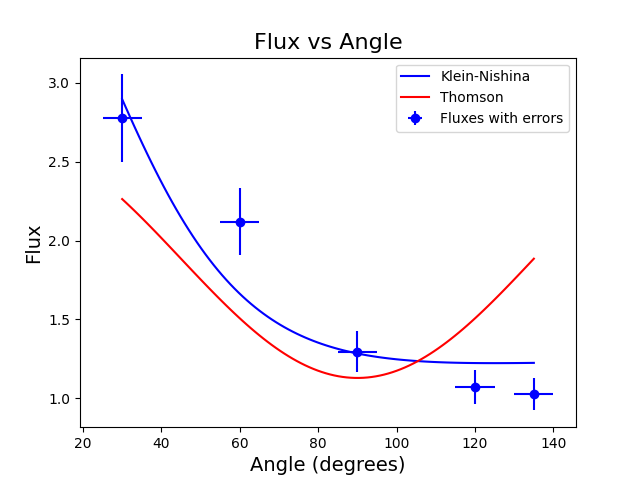
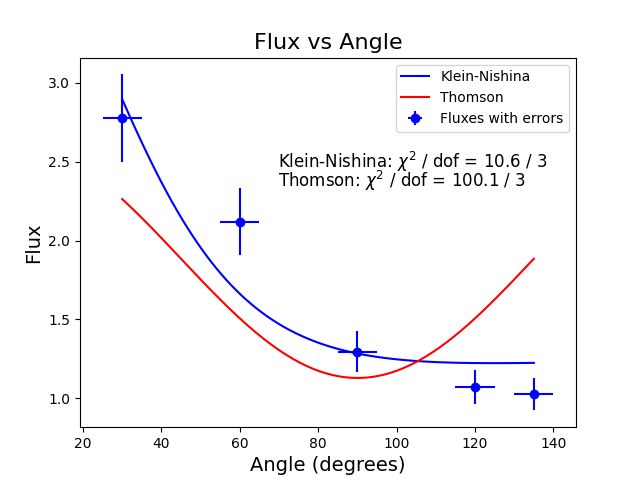
clean up images

Changed region(s): [[0.4375, 0.3125, 0.8438, 0.4062], [0.8438, 0.3125, 0.875, 0.3438]]

diff --git a/Exp2-Compton/energies_and_diffcrosssec/KN.py b/Exp2-Compton/energies_and_diffcrosssec/KN.py
@@ -92,6 +92,11 @@ if __name__ == "__main__":
     # add a 10% error to the fluxes
     recoil_flux_error = [0.1 * flux for flux in recoil_flux]
 
+    # get chi squared values for the fits
+    chi_squared_kn = np.sum((np.array(recoil_flux) - np.array(kn_function(angles, *popt)))**2 / np.array(recoil_flux_error)**2)
+    chi_squared_thomson = np.sum((np.array(recoil_flux) - np.array(thomson(angles, *popt_thomson)))**2 / np.array(recoil_flux_error)**2)
+    print(f"Klein-Nishina: chi^2 / dof = {chi_squared_kn} / {len(angles) - len(popt)}")
+    print(f"Thomson: chi^2 / dof = {chi_squared_thomson} / {len(angles) - len(popt_thomson)}")
 
     # plot the fit
     plt.errorbar(angles, recoil_flux, xerr=angle_errors, yerr=recoil_flux_error, fmt='o', label='Fluxes with errors', color='blue')
@@ -100,6 +105,11 @@ if __name__ == "__main__":
     plt.plot(theta_plt, thomson(theta_plt, *popt_thomson), label=f"Thomson", color='red')
     plt.xlabel("Angle (degrees)", fontsize=14)
     plt.ylabel("Flux", fontsize=14)
+
+    # annotate the chi squared values
+    plt.text(0.4, 0.7, f"Klein-Nishina: $\chi^2$ / dof = {chi_squared_kn:.1f} / {len(angles) - len(popt)}", fontsize=12, transform=plt.gca().transAxes)
+    plt.text(0.4, 0.65, f"Thomson: $\chi^2$ / dof = {chi_squared_thomson:.1f} / {len(angles) - len(popt_thomson)}", fontsize=12, transform=plt.gca().transAxes)
+
     plt.title("Flux vs Angle", fontsize=16)
     plt.legend()
     plt.savefig("images/for_paper/klein_nishina.png")
